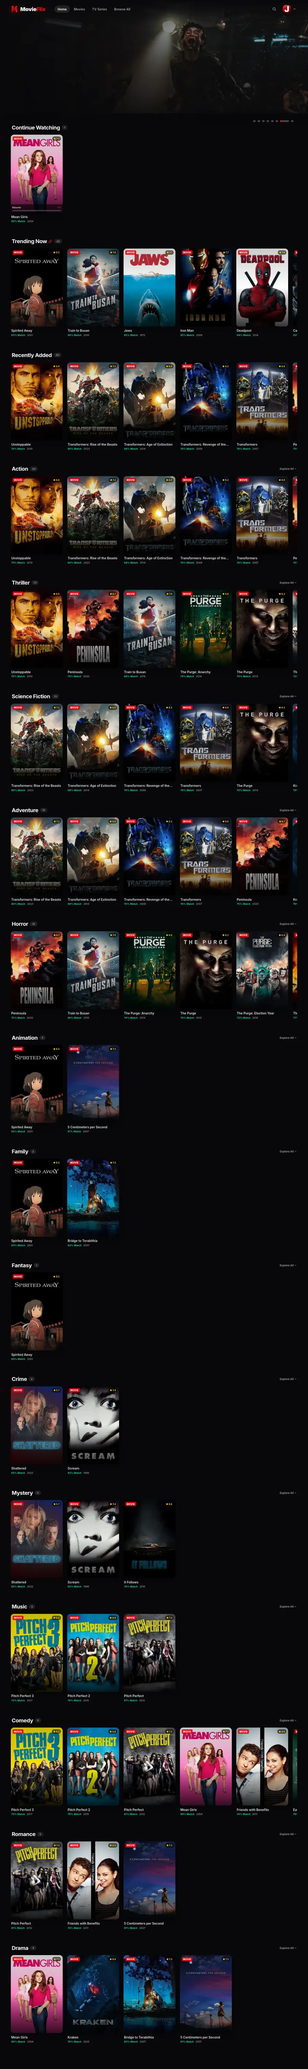
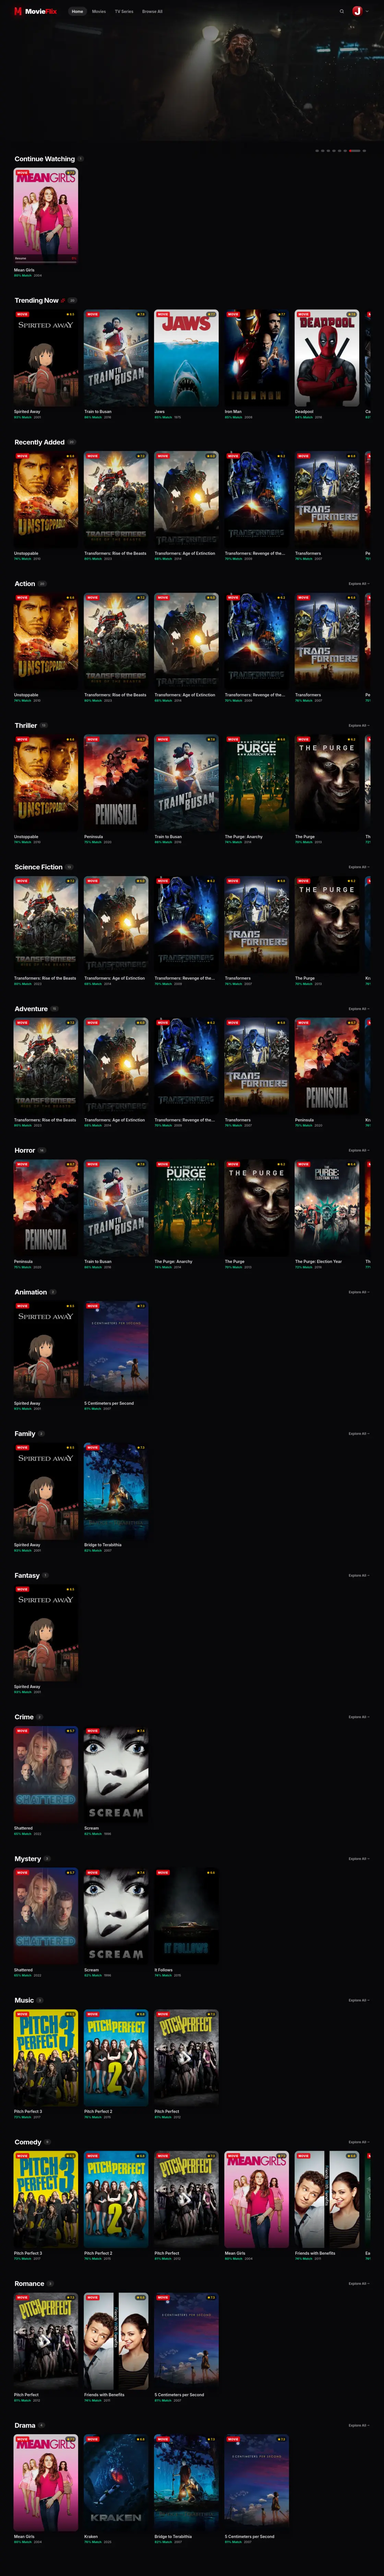
feat(anim): professional animation pass + fix carousel image loading/sharpness
Images:
- Regenerate homelab-os/movieflix scroll screenshots at higher resolution
  (1118x2900, 1120x7507) so they stay crisp on high-DPI screens.
- Swap carousel images from loading=lazy to loading=eager decoding=async so
  the transform-based 3D carousel never strands an image outside the
  browser's lazy-load margin (the 'images stop loading' bug).

Animations:
- Hero headline: lines now rise in staggered (masked lineRise reveal),
  with hero-title decoupled from the generic reveal transform.
- Skill bars get a shimmer sweep after filling.
- Back-to-top shows a refined ping ring when visible.
- Primary buttons get a light-sweep on hover.
- BRIGHTEN the top-right HUD bracket flow light (double drop-shadow glow).

All new animation respects prefers-reduced-motion and motion-lite.

diff --git a/src/css/sections.css b/src/css/sections.css
@@ -1,5 +1,5 @@
 .site-header{position:fixed;inset:0 0 auto;z-index:100;height:var(--header);border-bottom:1px solid transparent;transition:.25s}.site-header.scrolled{border-color:var(--line);background:color-mix(in srgb,var(--bg) 84%,transparent);backdrop-filter:blur(18px)}.nav-shell{height:100%;display:flex;align-items:center;justify-content:space-between;gap:24px}.brand{display:flex;align-items:center;gap:11px}.brand-mark{display:grid;place-items:center;width:39px;height:39px;border:1px solid var(--line-strong);border-radius:9px;background:linear-gradient(135deg,rgba(var(--accent-rgb),.15),transparent);color:var(--accent);font:700 .82rem var(--mono)}.brand-copy strong,.brand-copy small{display:block}.brand-copy strong{font:700 .9rem var(--display)}.brand-copy small{margin-top:2px;color:var(--muted);font:500 .54rem var(--mono);letter-spacing:.1em}.desktop-nav{display:flex;align-items:center;gap:26px}.nav-link{position:relative;padding:28px 0;color:var(--text-soft);font-size:.78rem;font-weight:600;transition:.2s}.nav-link::after{content:"";position:absolute;left:0;right:100%;bottom:21px;height:2px;background:var(--accent);transition:.25s}.nav-link:hover,.nav-link.active{color:var(--text)}.nav-link.active::after{right:0}.nav-actions{display:flex;align-items:center;gap:8px}.menu-toggle{display:none}.theme-toggle .sun{display:none}html[data-theme="light"] .theme-toggle .sun{display:block}html[data-theme="light"] .theme-toggle .moon{display:none}.mobile-menu-overlay{position:fixed;inset:0;z-index:109;background:rgba(1,7,14,.6);backdrop-filter:blur(6px);opacity:0;visibility:hidden;transition:.25s}.mobile-menu-overlay.open{opacity:1;visibility:visible}.mobile-menu{position:fixed;z-index:110;top:0;right:0;width:min(88vw,390px);height:100dvh;padding:24px;background:var(--surface);border-left:1px solid var(--line);display:flex;flex-direction:column;transform:translateX(102%);visibility:hidden;transition:transform .35s var(--ease),visibility 0s .35s}.mobile-menu.open{transform:none;visibility:visible;transition-delay:0s}.mobile-menu-head{display:flex;align-items:center;justify-content:space-between;padding-bottom:22px;border-bottom:1px solid var(--line)}.mobile-menu-links{display:grid;margin-top:18px}.mobile-menu-link{display:flex;align-items:center;gap:16px;padding:15px 4px;border-bottom:1px solid var(--line);font:600 1.15rem var(--display)}.mobile-menu-link span{color:var(--accent);font:500 .67rem var(--mono)}.mobile-menu-foot{display:grid;gap:10px;margin-top:auto;color:var(--muted);font:.7rem var(--mono)}.mobile-menu-foot a{display:flex;align-items:center;gap:8px;color:var(--text-soft)}.mobile-menu-foot svg{width:17px}
-.hero{position:relative;min-height:100vh;padding:calc(var(--header) + clamp(34px,6vw,70px)) 0 50px;overflow:hidden}.hero::before{content:"";position:absolute;left:-12%;top:26%;width:40vw;height:40vw;background:radial-gradient(circle,rgba(124,140,255,.08),transparent 70%);pointer-events:none}.hero-layout{display:grid;grid-template-columns:minmax(0,1.08fr) minmax(390px,.92fr);align-items:center;gap:clamp(55px,8vw,120px)}.hero-copy{position:relative;z-index:2}.availability{display:inline-flex;align-items:center;gap:11px;padding:8px 12px;border:1px solid var(--line);border-radius:999px;background:var(--surface);color:var(--text-soft);font:500 .69rem var(--mono)}.hero-kicker{margin-top:38px;color:var(--accent);font:600 .72rem var(--mono);letter-spacing:.17em}.hero-title{margin-top:17px;font-size:clamp(3.25rem,5.6vw,5.8rem);letter-spacing:-.06em}.hero-title span{color:var(--accent);text-shadow:0 0 32px rgba(var(--accent-rgb),.15)}.hero-role{margin-top:25px;color:var(--text);font:500 clamp(.85rem,1.4vw,1rem) var(--mono)}.hero-intro{max-width:650px;margin-top:20px;font-size:clamp(1rem,1.5vw,1.12rem);line-height:1.8}.hero-actions{display:flex;flex-wrap:wrap;gap:10px;margin-top:31px}.hero-command{display:flex;align-items:center;gap:7px;margin-top:23px;color:var(--muted);font-size:.71rem}.hero-command span:last-child{margin-left:5px}.hero-tech{display:flex;flex-wrap:wrap;gap:7px;margin-top:17px}.hero-tech span{padding:5px 8px;border:1px solid var(--line);border-radius:6px;color:var(--text-soft);font:500 .6rem var(--mono);letter-spacing:.04em}.hero-system{position:relative;min-height:610px}.system-frame{position:absolute;z-index:2;left:50%;top:50%;width:min(78%,360px);transform:translate(-50%,-50%);overflow:hidden;border:1px solid var(--line-strong);border-radius:18px;background:var(--surface);box-shadow:var(--shadow)}.system-frame::before,.system-frame::after{content:"";position:absolute;z-index:6;width:22px;height:22px;border:1px solid rgba(var(--accent-rgb),.85);opacity:.85;pointer-events:none}.system-frame::before{top:9px;left:9px;border-right:0;border-bottom:0}.system-frame::after{bottom:9px;right:9px;border-left:0;border-top:0}.frame-head,.frame-foot{display:flex;align-items:center;justify-content:space-between;padding:12px 14px;font:500 .62rem var(--mono);letter-spacing:.06em}.frame-head{border-bottom:1px solid var(--line)}.online{display:flex;align-items:center;gap:6px;color:var(--green)}.online i{width:6px;height:6px;border-radius:50%;background:var(--green)}.portrait-wrap{position:relative;aspect-ratio:4/5;overflow:hidden;background:linear-gradient(145deg,var(--surface-2),var(--bg-soft))}.portrait-wrap::after{content:"";position:absolute;inset:0;background:linear-gradient(to top,var(--surface),transparent 35%)}.portrait-wrap img{width:100%;height:100%;object-fit:cover;object-position:center top;filter:saturate(.84) contrast(1.04)}.scan-line{position:absolute;z-index:2;left:0;right:0;top:24%;height:1px;background:linear-gradient(90deg,transparent,var(--accent),transparent);box-shadow:0 0 16px var(--accent);opacity:.5}.frame-foot{position:relative;z-index:3;align-items:flex-end}.frame-foot strong{font:700 .95rem var(--display)}.frame-foot span{color:var(--muted)}.system-card{position:absolute;z-index:4;display:flex;align-items:center;gap:11px;padding:12px 14px;border:1px solid var(--line);border-radius:11px;background:color-mix(in srgb,var(--surface) 92%,transparent);box-shadow:0 15px 40px rgba(0,0,0,.22);backdrop-filter:blur(12px)}.system-card>svg{width:34px;height:34px;padding:7px;border:1px solid var(--line);border-radius:8px;color:var(--accent)}.system-card small,.system-card strong{display:block}.system-card small{color:var(--muted);font:500 .54rem var(--mono);letter-spacing:.08em}.system-card strong{margin-top:3px;font-size:.76rem}.card-code{left:0;top:15%}.card-infra{right:-2%;top:43%}.card-sec{left:3%;bottom:11%}.system-lines{position:absolute;inset:0;width:100%;height:100%;color:var(--line-strong);stroke-dasharray:5 8}.system-lines .lines-flow path{fill:none;stroke:var(--accent);stroke-width:2.2;stroke-linecap:round;stroke-linejoin:round;stroke-dasharray:54 286;filter:drop-shadow(0 0 6px rgba(var(--accent-rgb),.9));animation:lineFlow 4.8s linear infinite;will-change:stroke-dashoffset}.system-lines .lines-flow path:nth-child(2){animation-delay:1.6s}.system-lines .lines-flow path:nth-child(3){animation-delay:3.2s}.system-lines circle{stroke:var(--accent);fill:rgba(var(--accent-rgb),.18)}.identity-rail{position:relative;z-index:3;display:grid;grid-template-columns:repeat(4,1fr);margin-top:40px;border:1px solid var(--line);border-radius:14px;background:color-mix(in srgb,var(--surface) 78%,transparent);backdrop-filter:blur(10px)}.identity-rail>div{display:flex;align-items:center;gap:13px;padding:18px 20px;border-right:1px solid var(--line)}.identity-rail>div:last-child{border:0}.identity-rail svg{color:var(--accent)}.identity-rail span,.identity-rail small{display:block}.identity-rail span{font-size:.78rem;font-weight:600}.identity-rail small{margin-bottom:2px;color:var(--muted);font:500 .55rem var(--mono);letter-spacing:.09em}
+.hero{position:relative;min-height:100vh;padding:calc(var(--header) + clamp(34px,6vw,70px)) 0 50px;overflow:hidden}.hero::before{content:"";position:absolute;left:-12%;top:26%;width:40vw;height:40vw;background:radial-gradient(circle,rgba(124,140,255,.08),transparent 70%);pointer-events:none}.hero-layout{display:grid;grid-template-columns:minmax(0,1.08fr) minmax(390px,.92fr);align-items:center;gap:clamp(55px,8vw,120px)}.hero-copy{position:relative;z-index:2}.availability{display:inline-flex;align-items:center;gap:11px;padding:8px 12px;border:1px solid var(--line);border-radius:999px;background:var(--surface);color:var(--text-soft);font:500 .69rem var(--mono)}.hero-kicker{margin-top:38px;color:var(--accent);font:600 .72rem var(--mono);letter-spacing:.17em}.hero-title{margin-top:17px;font-size:clamp(3.25rem,5.6vw,5.8rem);letter-spacing:-.06em}.hero-title span{color:var(--accent);text-shadow:0 0 32px rgba(var(--accent-rgb),.15)}.hero-role{margin-top:25px;color:var(--text);font:500 clamp(.85rem,1.4vw,1rem) var(--mono)}.hero-intro{max-width:650px;margin-top:20px;font-size:clamp(1rem,1.5vw,1.12rem);line-height:1.8}.hero-actions{display:flex;flex-wrap:wrap;gap:10px;margin-top:31px}.hero-command{display:flex;align-items:center;gap:7px;margin-top:23px;color:var(--muted);font-size:.71rem}.hero-command span:last-child{margin-left:5px}.hero-tech{display:flex;flex-wrap:wrap;gap:7px;margin-top:17px}.hero-tech span{padding:5px 8px;border:1px solid var(--line);border-radius:6px;color:var(--text-soft);font:500 .6rem var(--mono);letter-spacing:.04em}.hero-system{position:relative;min-height:610px}.system-frame{position:absolute;z-index:2;left:50%;top:50%;width:min(78%,360px);transform:translate(-50%,-50%);overflow:hidden;border:1px solid var(--line-strong);border-radius:18px;background:var(--surface);box-shadow:var(--shadow)}.system-frame::before,.system-frame::after{content:"";position:absolute;z-index:6;width:22px;height:22px;border:1px solid rgba(var(--accent-rgb),.85);opacity:.85;pointer-events:none}.system-frame::before{top:9px;left:9px;border-right:0;border-bottom:0}.system-frame::after{bottom:9px;right:9px;border-left:0;border-top:0}.frame-head,.frame-foot{display:flex;align-items:center;justify-content:space-between;padding:12px 14px;font:500 .62rem var(--mono);letter-spacing:.06em}.frame-head{border-bottom:1px solid var(--line)}.online{display:flex;align-items:center;gap:6px;color:var(--green)}.online i{width:6px;height:6px;border-radius:50%;background:var(--green)}.portrait-wrap{position:relative;aspect-ratio:4/5;overflow:hidden;background:linear-gradient(145deg,var(--surface-2),var(--bg-soft))}.portrait-wrap::after{content:"";position:absolute;inset:0;background:linear-gradient(to top,var(--surface),transparent 35%)}.portrait-wrap img{width:100%;height:100%;object-fit:cover;object-position:center top;filter:saturate(.84) contrast(1.04)}.scan-line{position:absolute;z-index:2;left:0;right:0;top:24%;height:1px;background:linear-gradient(90deg,transparent,var(--accent),transparent);box-shadow:0 0 16px var(--accent);opacity:.5}.frame-foot{position:relative;z-index:3;align-items:flex-end}.frame-foot strong{font:700 .95rem var(--display)}.frame-foot span{color:var(--muted)}.system-card{position:absolute;z-index:4;display:flex;align-items:center;gap:11px;padding:12px 14px;border:1px solid var(--line);border-radius:11px;background:color-mix(in srgb,var(--surface) 92%,transparent);box-shadow:0 15px 40px rgba(0,0,0,.22);backdrop-filter:blur(12px)}.system-card>svg{width:34px;height:34px;padding:7px;border:1px solid var(--line);border-radius:8px;color:var(--accent)}.system-card small,.system-card strong{display:block}.system-card small{color:var(--muted);font:500 .54rem var(--mono);letter-spacing:.08em}.system-card strong{margin-top:3px;font-size:.76rem}.card-code{left:0;top:15%}.card-infra{right:-2%;top:43%}.card-sec{left:3%;bottom:11%}.system-lines{position:absolute;inset:0;width:100%;height:100%;color:var(--line-strong);stroke-dasharray:5 8}.system-lines .lines-flow path{fill:none;stroke:var(--accent);stroke-width:2.6;stroke-linecap:round;stroke-linejoin:round;stroke-dasharray:58 282;filter:drop-shadow(0 0 9px rgba(var(--accent-rgb),.95)) drop-shadow(0 0 22px rgba(var(--accent-rgb),.4));animation:lineFlow 4.8s linear infinite;will-change:stroke-dashoffset}.system-lines .lines-flow path:nth-child(2){animation-delay:1.6s}.system-lines .lines-flow path:nth-child(3){animation-delay:3.2s}.system-lines circle{stroke:var(--accent);fill:rgba(var(--accent-rgb),.18)}.identity-rail{position:relative;z-index:3;display:grid;grid-template-columns:repeat(4,1fr);margin-top:40px;border:1px solid var(--line);border-radius:14px;background:color-mix(in srgb,var(--surface) 78%,transparent);backdrop-filter:blur(10px)}.identity-rail>div{display:flex;align-items:center;gap:13px;padding:18px 20px;border-right:1px solid var(--line)}.identity-rail>div:last-child{border:0}.identity-rail svg{color:var(--accent)}.identity-rail span,.identity-rail small{display:block}.identity-rail span{font-size:.78rem;font-weight:600}.identity-rail small{margin-bottom:2px;color:var(--muted);font:500 .55rem var(--mono);letter-spacing:.09em}
 .about-layout{display:grid;grid-template-columns:.75fr .7fr 1.05fr;align-items:start;gap:clamp(38px,5vw,74px)}.about-layout .section-heading{position:sticky;top:calc(var(--header) + 40px)}.about-photo{position:relative;overflow:hidden;border-radius:var(--radius-lg);border:1px solid var(--line);background:var(--surface)}.about-photo img{width:100%;aspect-ratio:3/4;object-fit:cover;filter:saturate(.8)}.photo-label{position:absolute;left:12px;right:12px;bottom:12px;padding:10px;border:1px solid rgba(255,255,255,.16);border-radius:8px;background:rgba(3,11,19,.75);color:#dcecf7;text-align:center;font:500 .57rem var(--mono);letter-spacing:.08em;backdrop-filter:blur(8px)}.about-copy{padding-top:7px}.about-copy>p{margin-bottom:20px}.about-copy .lead{color:var(--text);font-size:1.15rem;line-height:1.7}.about-copy blockquote{margin:30px 0;padding:20px 0;border-block:1px solid var(--line);font:600 1.25rem/1.5 var(--display);color:var(--accent)}.about-values{display:flex;flex-wrap:wrap;gap:8px}.about-values span{padding:7px 11px;border:1px solid var(--line);border-radius:7px;background:var(--surface);font:500 .7rem var(--mono)}.education-note,.cert-note{display:flex;align-items:center;gap:13px;margin-top:25px;padding:15px;border:1px solid var(--line);border-radius:11px;background:var(--surface)}.education-note svg,.cert-note svg{color:var(--accent)}.education-note span,.education-note small,.cert-note span,.cert-note small{display:block}.education-note small,.cert-note small{color:var(--muted);font:500 .58rem var(--mono);letter-spacing:.08em}.personal-note{margin-top:20px;font-size:.86rem}
 .capability-section,.upcoming-section,.environment-section,.github-section{background:var(--bg-soft)}.capability-grid{display:grid;grid-template-columns:repeat(4,1fr);border:1px solid var(--line);border-radius:var(--radius-lg);overflow:hidden}.capability-card{position:relative;min-height:390px;padding:28px;border-right:1px solid var(--line);background:var(--surface);transition:.25s var(--ease)}.capability-card:last-child{border:0}.capability-card:hover{background:var(--surface-2)}.capability-card>.card-index{color:var(--muted);font:500 .63rem var(--mono)}.capability-card>svg{width:44px;height:44px;margin-top:62px;padding:10px;border:1px solid var(--line-strong);border-radius:10px;color:var(--accent)}.capability-card h3{margin-top:24px;font-size:1.35rem}.capability-card p{margin-top:13px;font-size:.87rem}.capability-card ul{display:grid;gap:7px;margin-top:24px;color:var(--text-soft);font:500 .69rem var(--mono)}.capability-card li::before{content:"/";margin-right:7px;color:var(--accent)}
 .skills-grid{display:grid;grid-template-columns:repeat(3,1fr);gap:12px}.skill-card{padding:19px;border:1px solid var(--line);border-radius:12px;background:var(--surface);transition:.22s var(--ease)}.skill-card:hover{border-color:var(--line-strong);transform:translateY(-3px)}.skill-head,.skill-name-group,.skill-bar-wrap{display:flex;align-items:center}.skill-head{justify-content:space-between}.skill-name-group{gap:11px}.skill-icon{display:grid;place-items:center;width:37px;height:37px;border:1px solid color-mix(in srgb,var(--skill-color) 35%,var(--line));border-radius:9px;color:var(--skill-color)}.skill-icon svg{width:19px;height:19px}.skill-name{font-weight:700}.skill-level,.skill-bar-val{color:var(--muted);font:500 .68rem var(--mono)}.skill-bar-wrap{gap:10px;margin-top:17px}.progress-bar{height:3px;flex:1;overflow:hidden;border-radius:99px;background:var(--surface-3)}.progress-bar-bar{height:100%;border-radius:inherit;background:var(--skill-color,var(--accent));transition:width .9s var(--ease)}.skill-tags{display:flex;flex-wrap:wrap;gap:8px;margin-top:28px}.skill-tags span{padding:8px 11px;border:1px solid var(--line);border-radius:7px;color:var(--text-soft);font:500 .69rem var(--mono)}

diff --git a/src/css/animations.css b/src/css/animations.css
@@ -90,3 +90,27 @@ html.motion-lite *,html.motion-lite *::before,html.motion-lite *::after{animatio
 html.motion-lite .reveal{opacity:1;transform:none;filter:none}
 html.motion-lite .section-heading.reveal h2{clip-path:none}
 @media(prefers-reduced-motion:reduce){.section-heading.reveal h2{clip-path:none}.guest-grid>div::after,.topology-link::after{display:none}.lab-shell.revealed .topology-node,.lab-shell.revealed .guest-grid>div{animation:none}}
+
+/* ---- Elevated hero headline: lines rise in staggered ---- */
+.hero-title .h-line{display:block;overflow:hidden;padding:.06em 0 .1em;margin:-.06em 0 -.1em}
+.hero-title .h-line-in{display:block;opacity:0;transform:translate3d(0,115%,0);will-change:transform}
+body.site-ready .hero-title .h-line-in{animation:lineRise .9s var(--ease) var(--line-delay,0ms) both}
+body.is-booting .hero-title.reveal.revealed{opacity:0;transform:none}
+@keyframes lineRise{from{opacity:0;transform:translate3d(0,115%,0)}to{opacity:1;transform:none}}
+
+/* ---- Skill bar shimmer sweep ---- */
+.progress-bar-bar{position:relative;overflow:hidden}
+.progress-bar-bar::after{content:"";position:absolute;top:0;bottom:0;left:0;width:46%;background:linear-gradient(100deg,transparent,rgba(255,255,255,.32),transparent);transform:translateX(-140%);animation:barShine 2.9s var(--ease) 1.1s infinite;pointer-events:none}
+@keyframes barShine{45%,100%{transform:translateX(330%)}}
+
+/* ---- Back-to-top ping when visible ---- */
+.back-to-top::after{content:"";position:absolute;inset:-7px;border:1px solid rgba(var(--accent-rgb),.45);border-radius:10px;opacity:0;pointer-events:none}
+.back-to-top.visible::after{animation:btnPing 2.6s var(--ease) infinite}
+@keyframes btnPing{0%{transform:scale(.86);opacity:0}32%{opacity:.9}100%{transform:scale(1.32);opacity:0}}
+
+/* ---- Primary button light sweep ---- */
+.btn.primary{position:relative;overflow:hidden}
+.btn.primary::after{content:"";position:absolute;top:0;left:-75%;width:38%;height:100%;background:linear-gradient(105deg,transparent,rgba(255,255,255,.32),transparent);transform:skewX(-20deg);pointer-events:none}
+.btn.primary:hover::after{left:145%;transition:left .6s var(--ease)}
+
+@media(prefers-reduced-motion:reduce){.hero-title .h-line-in{opacity:1;transform:none;animation:none}.progress-bar-bar::after{display:none}.back-to-top::after{animation:none;opacity:0}.btn.primary::after{display:none}}

diff --git a/src/js/projects.js b/src/js/projects.js
@@ -362,7 +362,7 @@
       const imageSource = useScrollImage ? project.scrollImage : project.image;
       const imageFallback = useScrollImage ? project.image : project.imageFallback;
       const imageContent = imageSource
-        ? '<img src="' + imageSource + '" data-fallback="' + (imageFallback || '') + '" data-placeholder="pj-img-' + project.id + '" alt="' + escapeHtml(project.name) + ' screenshot" loading="lazy">'
+        ? '<img src="' + imageSource + '" data-fallback="' + (imageFallback || '') + '" data-placeholder="pj-img-' + project.id + '" alt="' + escapeHtml(project.name) + ' screenshot" loading="eager" decoding="async">'
         : '';
 
       const serviceVisual = project.visualType === 'service'
@@ -630,9 +630,9 @@
         const profile = results[0];
         const repos = results[1];
         const stars = repos.reduce(function (total, repo) { return total + (repo.stargazers_count || 0); }, 0);
-        if (reposEl) reposEl.textContent = profile.public_repos ?? '—';
-        if (followersEl) followersEl.textContent = profile.followers ?? '—';
-        if (starsEl) starsEl.textContent = stars;
+        animateValue(reposEl, profile.public_repos ?? 0);
+        animateValue(followersEl, profile.followers ?? 0);
+        animateValue(starsEl, stars);
         if (noteEl) noteEl.textContent = 'Public GitHub information loaded live.';
       })
       .catch(function () {
@@ -641,6 +641,19 @@
         if (starsEl) starsEl.textContent = '—';
         if (noteEl) noteEl.textContent = 'Live GitHub stats unavailable right now. Stats load from the public API when reachable.';
       });
+  }
+
+  function animateValue(el, target) {
+    if (!el) return;
+    if (reduceMotion()) { el.textContent = String(target); return; }
+    const duration = 900;
+    const startTime = performance.now();
+    (function tick(now) {
+      const progress = Math.min(1, (now - startTime) / duration);
+      const eased = 1 - Math.pow(1 - progress, 3);
+      el.textContent = String(Math.round(target * eased));
+      if (progress < 1) requestAnimationFrame(tick);
+    })(startTime);
   }
 
   function animateBars() {

diff --git a/src/js/animations.js b/src/js/animations.js
@@ -43,7 +43,7 @@
       groups.set(parent, groupIndex + 1);
       element.style.setProperty('--reveal-delay', Math.min(groupIndex * 80, 320) + 'ms');
 
-      if (element.closest('.hero') && element.id !== 'hero-visual') {
+      if (element.closest('.hero') && element.id !== 'hero-visual' && !element.matches('.hero-title')) {
         element.classList.add('reveal-rise');
       } else if (element.matches('.about-photo,.timeline,.github-mark')) {
         element.classList.add('reveal-left');
@@ -55,6 +55,15 @@
         element.classList.add(index % 2 ? 'reveal-rise' : 'reveal-soft');
       }
     });
+  }
+
+  function initHeadline() {
+    const title = document.querySelector('.hero-title');
+    if (!title || reducedMotion) return;
+    const lines = title.innerHTML.split(/<br\s*\/?>/i);
+    title.innerHTML = lines.map(function (line, index) {
+      return '<span class="h-line"><span class="h-line-in" style="--line-delay:' + (index * 120) + 'ms">' + line + '</span></span>';
+    }).join('');
   }
 
   function initReveal() {
@@ -165,6 +174,7 @@
 
   document.addEventListener('DOMContentLoaded', function () {
     finishBoot();
+    initHeadline();
     initReveal();
     initSectionMotion();
     initScrollEffects();
